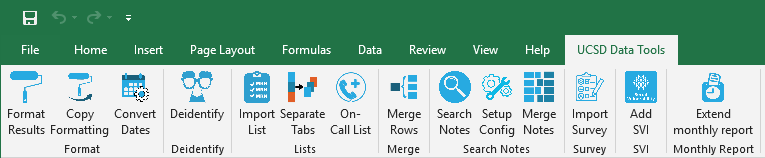
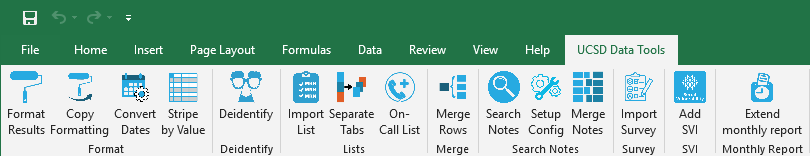
Add stripe-generator app.

diff --git a/DECS Excel Add-Ins/Striper.cs b/DECS Excel Add-Ins/Striper.cs
@@ -1,0 +1,96 @@
+using Microsoft.Office.Interop.Excel;
+using System;
+using System.Collections.Generic;
+using System.ComponentModel;
+using System.Linq;
+using System.Runtime.Serialization;
+using System.Text;
+using System.Threading.Tasks;
+using System.Windows.Forms;
+
+namespace DECS_Excel_Add_Ins
+{    
+    /**
+     * @brief Breaks an Excel spreadsheet into groups based on a selected column.
+     */
+    internal class Striper
+    {
+        private Microsoft.Office.Interop.Excel.Application application;
+        private int lastRowInSheet;
+        private Range selectedColumnRng;
+        private Dictionary<string, Block> sourceBlocks;
+        private Worksheet thisWorksheet;
+        private XlRgbColor gray = XlRgbColor.rgbLightGray;
+
+        internal Striper()
+        {
+            application = Globals.ThisAddIn.Application;
+        }
+
+        private bool FindSelectedCategory(Worksheet worksheet)
+        {
+            bool success = false;
+
+            // Any column selected?
+            selectedColumnRng = Utilities.GetSelectedCol(application, lastRowInSheet);
+
+            if (selectedColumnRng is null)
+            {
+                // Then ask user to select one column.
+                List<string> columnNames = Utilities.GetColumnNames(worksheet);
+
+                using (ChooseCategoryForm form = new ChooseCategoryForm(columnNames))
+                {
+                    var result = form.ShowDialog();
+
+                    if (result == DialogResult.OK)
+                    {
+                        string selectedColumnName = form.selectedCategory;
+                        selectedColumnRng = Utilities.TopOfNamedColumn(worksheet, selectedColumnName);
+                        success = true;
+                    }
+                    else if (result == DialogResult.Cancel)
+                    {
+                        // Then we're done here.
+                        return success;
+                    }
+                }
+            }
+            else
+            {
+                success = true;
+            }
+
+            return success;
+        }
+
+        internal void Run(Worksheet worksheet)
+        {
+            thisWorksheet = worksheet;
+            lastRowInSheet = worksheet.UsedRange.Rows.Count;
+
+            if (FindSelectedCategory(worksheet))
+            {
+                // Figure out the distinct category values & where they are.
+                sourceBlocks = Utilities.IdentifyBlocks(selectedColumnRng, lastRowInSheet);                
+                List<string> blockNames = new List<string>(sourceBlocks.Keys);
+
+                int blockIndex = 0;
+
+                // Process each block in order.
+                foreach (string blockName in blockNames)
+                {
+                    // Stripe the even numbered blocks.
+                    if (blockIndex % 2 == 0)
+                    {
+                        // Find the Block of rows in the sheet corresponding to this value.
+                        Block thisBlock = sourceBlocks[blockName];
+                        thisBlock.shade(thisWorksheet, gray);
+                    }
+
+                    blockIndex++;
+                }
+            }
+        }
+    }
+}

diff --git a/DECS Excel Add-Ins/DecsExcelRibbon.cs b/DECS Excel Add-Ins/DecsExcelRibbon.cs
@@ -179,6 +179,16 @@ namespace DECS_Excel_Add_Ins
         }
 
         /// <summary>
+        /// Lets the @c DexsExcelRibbon.xml point to the image for the @c Stripe button.
+        /// </summary>
+        /// <param name="control">Reference to the IRibbonControl object.</param>
+        /// <returns>Bitmap</returns>
+        public Bitmap stripeButton_GetImage(IRibbonControl control)
+        {
+            return Resources.spreadsheet;
+        }
+
+        /// <summary>
         /// Lets the @c DexsExcelRibbon.xml point to the image for the @c AddSvi button.
         /// </summary>
         /// <param name="control">Reference to the IRibbonControl object.</param>
@@ -368,6 +378,18 @@ namespace DECS_Excel_Add_Ins
             Excel.Worksheet wksheet = (Excel.Worksheet)Globals.ThisAddIn.Application.ActiveSheet;
             NotesParser parser = new NotesParser(_worksheet: wksheet);
             parser.Parse();
+        }
+
+        /// <summary>
+        /// When @c stripe button is pressed, this method instantiates a @c Striper object & calls its @c Run method.
+        /// </summary>
+        /// <param name="control">Reference to the IRibbonControl object.</param>
+
+        public void OnStripe(Office.IRibbonControl control)
+        {
+            Striper striper = new Striper();
+            Excel.Worksheet wksheet = (Excel.Worksheet)Globals.ThisAddIn.Application.ActiveSheet;
+            striper.Run(wksheet);
         }
 
         /// <summary>

diff --git a/DECS Excel Add-Ins/Utilities.cs b/DECS Excel Add-Ins/Utilities.cs
@@ -825,7 +825,7 @@ namespace DECS_Excel_Add_Ins
             int endingOffset = 1;
             string thisBlockName = null;
 
-            for (int rowOffset = 1; rowOffset < (lastRow - 1); rowOffset++)
+            for (int rowOffset = 1; rowOffset < lastRow; rowOffset++)
             {
                 try
                 {

diff --git a/README.md b/README.md
@@ -10,6 +10,7 @@ Creates custom buttons in Microsoft Excel & Word that allow user to:
 * Format a page of results with bold & centered header, NULLs grayed out, etc.
 * Copy the formatting from one sheet onto the next sheet(s).
 * Convert dates from [MUMPS](https://en.wikipedia.org/wiki/MUMPS) to Excel standard.
+* Highlight blocks of data.
 * Generate unique, scrambled identifiers from patient or user data.
 * Turn a list (of MRNs, ICD codes, etc.) into a SQL snippet that imports the column into a query.
 * Break up a long spreadsheet into individual sheets, using the value of one column.
